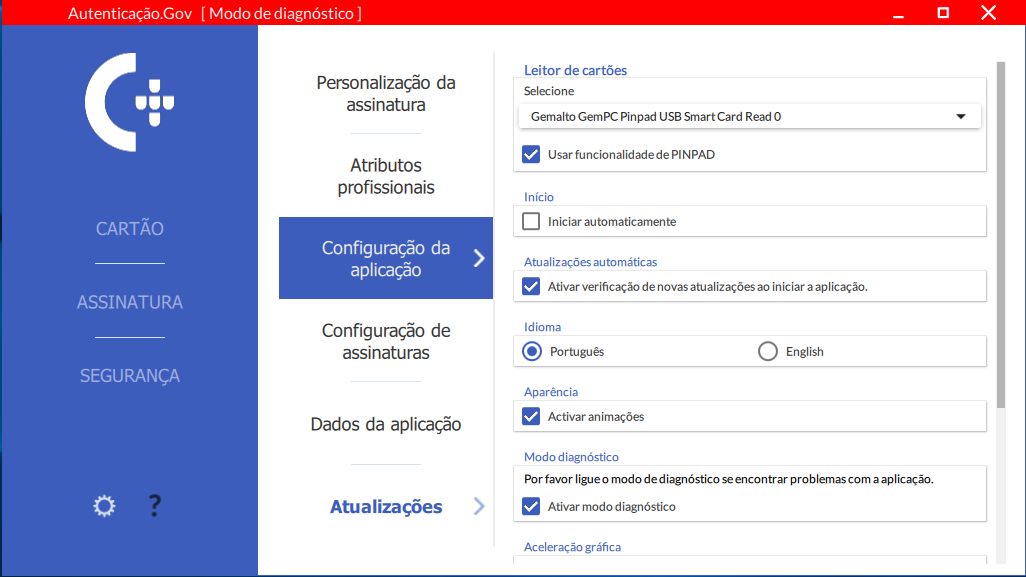
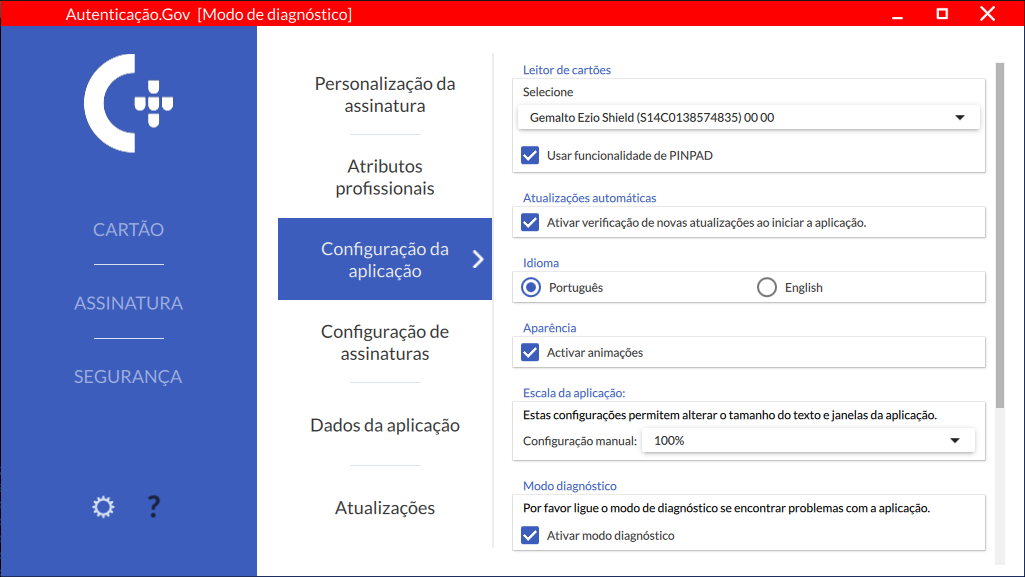
Update manual with information about scaling settings
re-apply changes made in commit 97645a7ed24ea99abecd20d964a572a185871f8d

diff --git a/user_manual.md b/user_manual.md
@@ -764,6 +764,8 @@ novas atualizações quando se inicia a aplicação.
 
 - **Aparência:** Opções relativas à aparência da aplicação.
 
+- **Escala da aplicação:** Opções relativas ao tamanho do texto e outros componentes da aplicação.
+
 - **Modo diagnóstico**: Permite ativar ou desativar o modo de diagnóstico da
 aplicação. Este modo eleva o nível de detalhe do *log* para *debug*, o
 que, em caso de problemas com a aplicação, pode ajudar a equipa de
